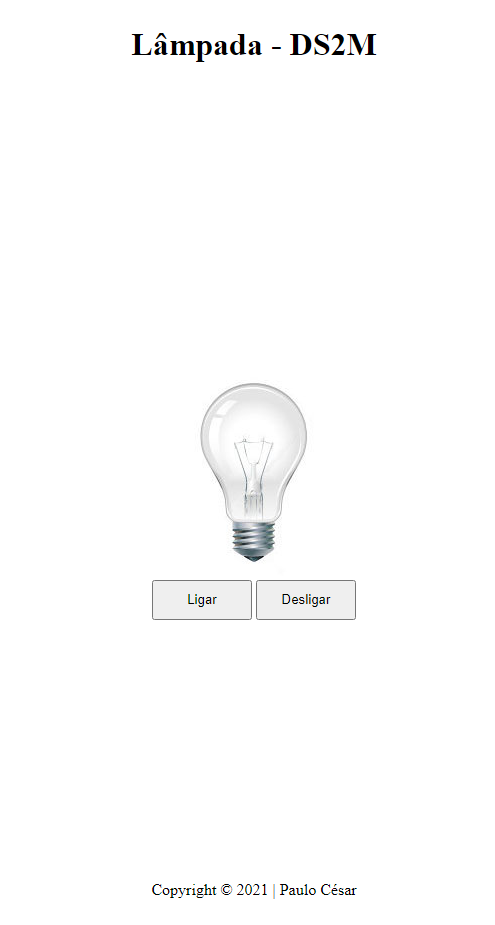
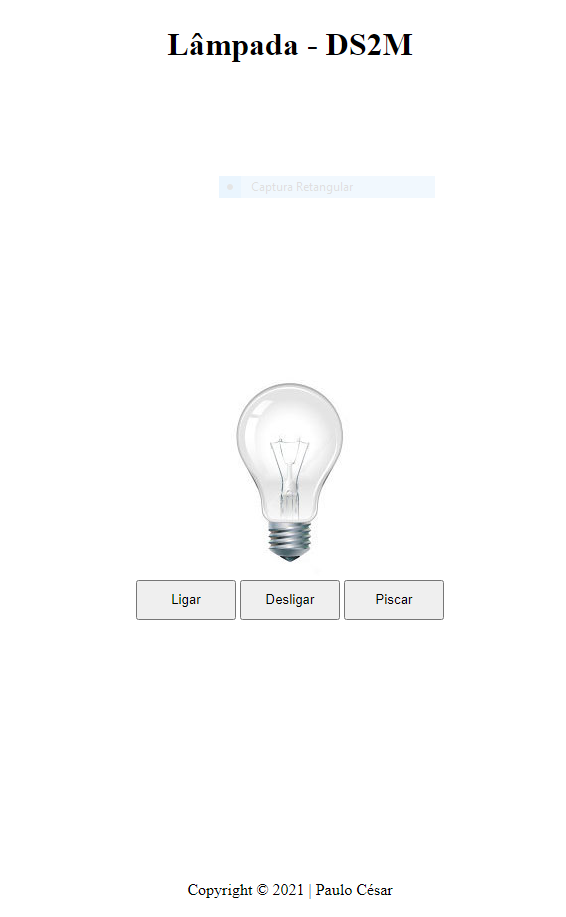
Novas Ações Adicionadas

diff --git a/lampada.js b/lampada.js
@@ -1,16 +1,22 @@
 "use strict"
 
+const lampada = document.getElementById("lampada")
+let idInterval
 
-function lampadaQuebrada() {
+/* function lampadaQuebrada() {
  return document.getElementById("lampada").src.indexOf("quebrada") !== -1
-}
+} */
+
+const lampadaQuebrada = () => lampada.src.indexOf("quebrada") !== -1
+
+/* function lampadaDesligada(){
+    return lampada.src.includes("desligada")
+} */
+
+const lampadaDesligada = () => lampada.src.includes("desligada")
 
 function ligarLampada(){
-
-    const lampada = document.getElementById("lampada")
-
     if(!lampadaQuebrada()){
-    
     lampada.src = "img/ligada.jpg"
     ligar.disabled = true
     desligar.disabled = false
@@ -18,11 +24,7 @@ function ligarLampada(){
 }
 
 function desligarLampada(){
-
-    const lampada = document.getElementById("lampada")
-
-    if(!lampadaQuebrada()){
-        
+    if(!lampadaQuebrada()){ 
     lampada.src = "img/desligada.jpg"
     ligar.disabled = false
     desligar.disabled = true
@@ -30,11 +32,31 @@ function desligarLampada(){
 }
 
 function quebrarLampada(){
-    const lampada = document.getElementById("lampada")
     lampada.src = "img/quebrada.jpg"
     ligar.disabled = true
     desligar.disabled = true
+    piscar.disabled = true
 }
+
+function trocarLampada(){
+    if(lampadaDesligada()){
+        ligarLampada()
+    } else {
+         desligarLampada()
+    }
+}
+
+function piscarLampada(){
+    const piscar = document.getElementById("piscar")
+    if(piscar.textContent == "Piscar"){
+        idInterval = setInterval(trocarLampada, 750)  
+         piscar.textContent = "Parar"
+    } else {
+        clearInterval(idInterval)
+        piscar.textContent = "Piscar"
+    }
+}
+
 
 document.getElementById("ligar")
 .addEventListener("click", ligarLampada)
@@ -50,3 +72,21 @@ document.getElementById("lampada")
 
 document.getElementById("lampada")
 .addEventListener("mouseleave", desligarLampada)
+
+document.getElementById("piscar")
+.addEventListener("click", piscarLampada)
+
+
+
+/*const some = function (a, b){
+    return a + b
+}
+const soma = (a, b) => {
+    return a + b
+}
+const somar = (a, b) => a + b
+
+const soma10 = function (a){
+    return a + 10
+}
+const soma1O = (a) => a + 10 */

diff --git a/index.html b/index.html
@@ -19,16 +19,13 @@
         <main>
 
             <div class="lampada-container">
-
                 <img src="img/desligada.jpg" alt="lampada" id="lampada">
-
             </div>
 
             <div class="button-container">
-
                 <button id="ligar">Ligar</button>
                 <button id="desligar">Desligar</button>
-
+                <button id="piscar">Piscar</button>
             </div>
 
         </main>

diff --git a/README.md b/README.md
@@ -2,7 +2,7 @@
 
 Site criado com objetivos didáticos para as aulas de PWFE do curso de Desenvolvimento de Sistemas do [SENAI Jandira](https://jandira.sp.senai.br/).
 
-O projeto consiste em criar uma lâmpada que tenha tenha três ações, ligar, desligar e quebrar, utilizando vários eventos.  
+O projeto consiste em criar uma lâmpada que tenha cinco ações, ligar, desligar, piscar, parar e quebrar, utilizando vários eventos.  
 
 ![](img/ligada.jpg) ![](img/desligada.jpg) ![](img/quebrada.jpg)
 
